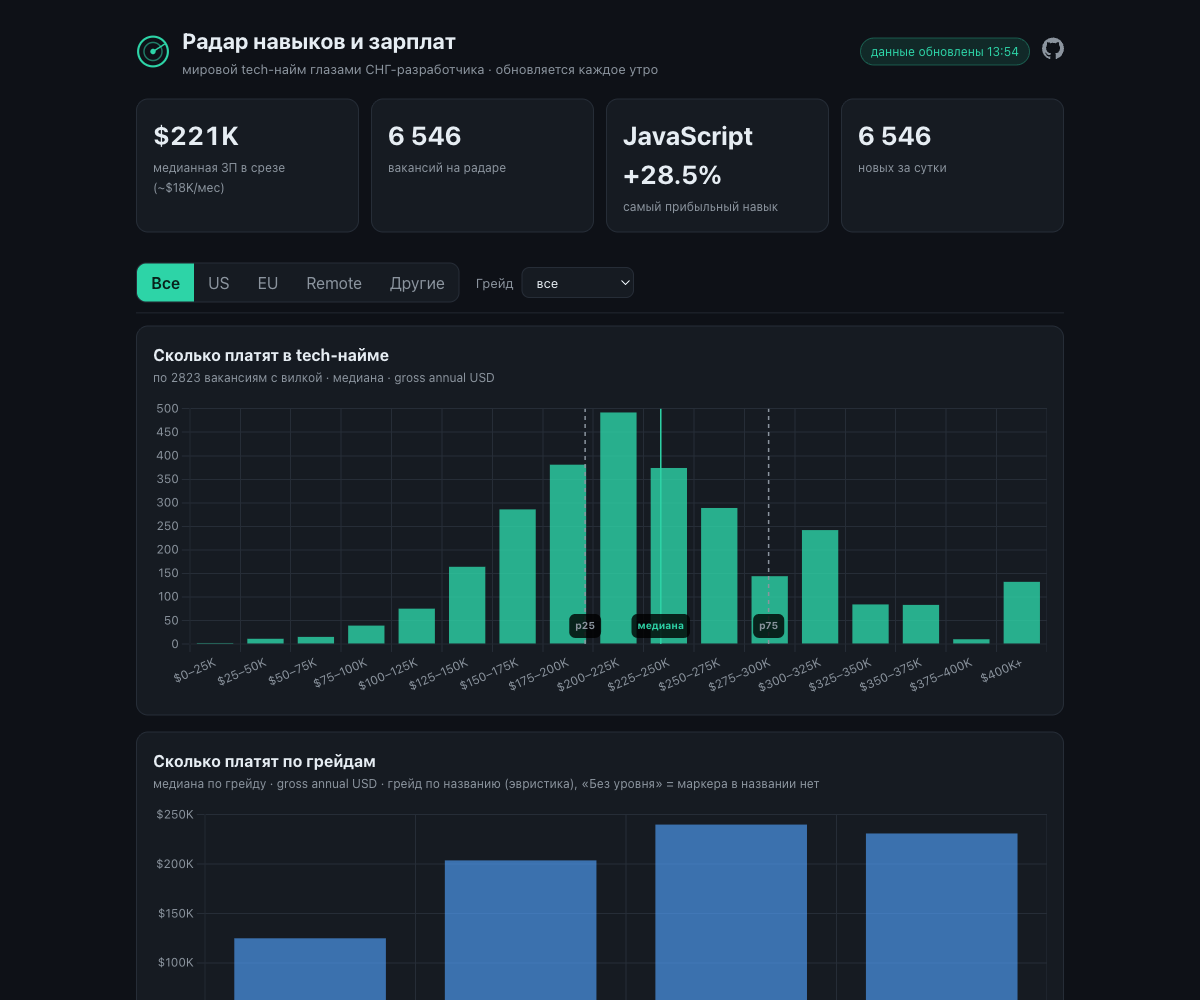
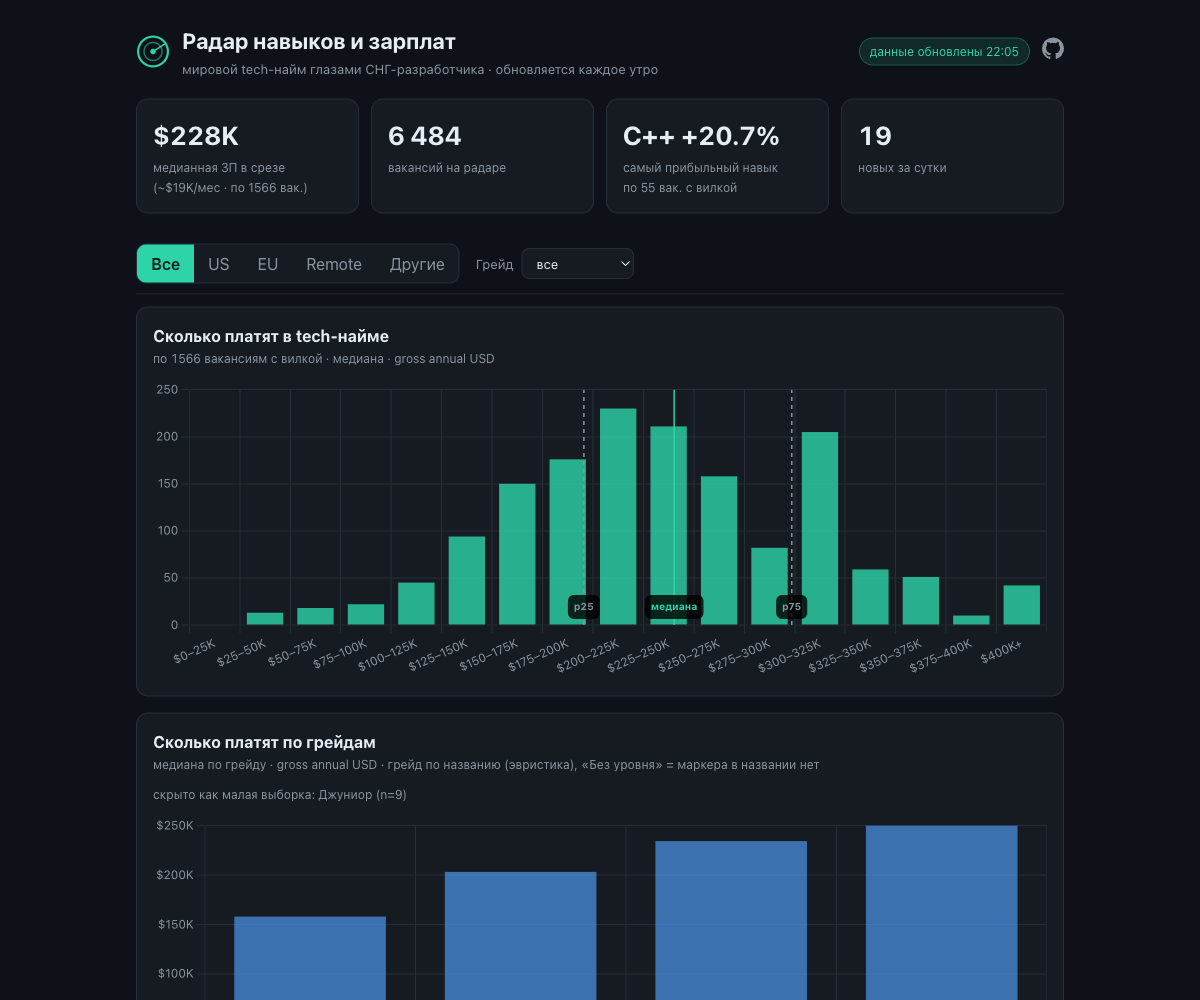
docs: journal Wave 1 results + refreshed screenshots on cleaned data

diff --git a/PLAN.md b/PLAN.md
@@ -441,6 +441,30 @@ PLAN переписан под ATS (§1–§10): USD-методика, seniority
 
 **Осталось (гейты, не код):** (1) eval-набор 25 примеров разметить по реальным JD → проверка владельцем → включить llm-eval в ci.yml; (2) полный дренаж LLM-очереди (~14 дней в проде, free-tier ~1000 вызовов/день); (3) этап 10 — 7 дней зелёных ранов + пост.
 
+### Волна 1 улучшений (docs/IMPROVEMENTS.md) — 2026-07-19/20 — ✅ ВЫПОЛНЕНА ЦЕЛИКОМ
+
+Мультиагентный брейншторм (12 агентов, 71 идея, 3 судьи) нашёл воспроизводимые дефекты; все 10 пунктов Волны 1 исправлены, плюс 9 пунктов Волны 2, вошедших в те же PR. Владелец дал сквозное разрешение («делай по порядку не спрашивая») — STOP-гейты 1.1/1.8 исполнены как «сделать и показать цифры».
+
+**1.1 Контаминация флагмана (главный дефект).** `skill_premium` выбрасывал множество `processed`, и вакансии, до которых LLM не дошёл, шли в пул «без навыка». Все опубликованные премии были завышены ~вдвое. До/после на одних данных: PyTorch +32.4→+16.4, C++ +29.6→+14.4, Go +28.0→+14.8, **Python +18.2→+2.2 (и CI пересекает ноль)**. Добавлен стратифицированный бутстрэп-CI (1000 реплик, фиксированный сид → воспроизводимость); `median_without_usd` убран из meta (пул поперёк страт противоречил столбцу). Приёмка: независимый duckdb-пересчёт C++ дал 14.4444% против 14.4% в meta.json — совпало.
+
+**1.2/1.3/1.9 Парсеры зарплат.** Ashby смешивал USD-min с JPY-max (ratio 1293) → парсинг по тирам с выбором одной валюты (14 конфликтов за прогон). Greenhouse брал «первые два $» из всего текста (бонусы, 401k, раунды инвестиций) → якорные пары рядом с salary-словами + гарды правдоподобия (203 пары отбраковано). `_PAIR` научен запятым, переносу суффикса («$150-200K»), символам £/€ и коду «GBP 90,000». Приёмки на свежем снапшоте: строк с max/min>20 — **0**; GH-строк с max/min>3 — **31 → 0**; EU-строк с вилкой **72 → 124** (GBP 31, EUR 11 из текста). **Побочный эффект честности: доля с вилкой 51% → 28%** — прежние 51% включали мусор.
+
+**1.4/1.6 Регионы и грейды.** `u\.s\.a?` внутри `\b…\b` никогда не матчил «U.S.»; «Tbilisi, Georgia» читался как US, «London, Ontario» как EU. Добавлены dotted-паттерн, коллизионный гард (Канада/Кавказ), city-only (Dublin/NYC/SF/Belgrade/Kyiv…). `seniority_of` научен нумералу `II|2` (уже зафиксирован в §3.6, но не был реализован); L5/IC3/«Engineer I/III» осознанно остаются unspecified; MTS — IC-титул, не staff+. Приёмки: **мид 16 → 92 строки**, из `other` мигрировало **96 строк**.
+
+**1.5 Очередь LLM.** Бюджет тратился в порядке фетча (все 700 размеченных — ashby A-L). Теперь порядок (has_salary, свежесть) + round-robin по ATS. Результат прогона: источников в выборке **3** (было 1), компаний 89, и **92% всех зарплатных вакансий размечены** (было ~11%). Доля зарплатных в дневном батче 59%, а не >80% из плана — потому что очередь зарплатных исчерпалась (осталась 141); порог писался под дофиксовые 2525.
+
+**1.7 Пакет честности (клиент).** «Новых за сутки» на дне-1 → «—»; hero-медиана при n<10 → «мало данных»; hero-навык требует n≥15 и CI выше нуля (**Go +14.8% n=119 вместо JavaScript +28.5% n=8**); знаменатель графика навыков подписан («доля от N размеченных, X% базы»); скрытые тонкие грейды названы; водяная подпись «день N из 7»; пустое состояние флагмана по §7 (<5 навыков).
+
+**1.8 Eval.** Написан детерминированный линтер (regex по каталогу, без LLM) — нашёл **5 фантомных лейблов** ровно там, где предсказал брейншторм (id=2 Git/Python, id=17 Python, id=22 C++) плюс id=7 LLM, и 7 пропущенных явных упоминаний (включая предсказанный id=12 «generative ai»→LLM). НЕ добавлены как лейблы: `GitLab`/`Git infrastructure` у id=17/20/22/24 — это имя компании-работодателя и её команд, а не требование навыка; `express`/`helm` — обычные английские слова. Набор расширен до **40** примеров (ashby AI-лабы), галлюцинации новых строк снимаются линтером автоматически. Гейт вынесен в отдельный `llm-eval.yml` (в ci.yml `paths-ignore: data/**` скрыл бы именно эти пуши). **Первый живой прогон: micro-F1 = 0.860, bootstrap CI [0.765, 0.928].** Бейдж в README.
+
+**1.10 + надёжность.** Volume-guard: сравнение с 7-дневными медианами по источникам, `VolumeGuardError` ДО записи партиций (полный отказ Greenhouse больше не запишется как обвал рынка); push-retry возвращал статус последней команды — три упавших пуша читались как зелёные, теперь честный exit 1; circuit-breaker пропускает целый ATS после 8 подряд отказов; timeout-minutes 90.
+
+**Из Волны 2 попутно:** бутстрэп-CI (п.1), лимит LLM 1200→5000 (п.2), не кэшировать NULL за пропущенные id и пустые описания (п.5), телеметрия экстракции в last_run.json (п.6), не сжигать бюджет на первом сбое — только на quota (п.7), Dependabot + верхние границы версий (п.8), деплой вне ETL-guard + пин wrangler@4 (п.9), timeout+circuit-breaker (п.10), MTS (п.11).
+
+**Состояние после прогона 2026-07-20:** 6484 tech-IC вакансии, 1822 с вилкой (28%), навыки у 43% базы и 92% зарплатных, медиана $228K. Флагман: значимы только **C++ +20.7% (n=55, CI [16.6, 24.5])** и Spark +18.8%; остальные 8 приглушены как статистически незначимые. Тесты 81 passed. Скриншоты пересняты.
+
+**Инфраструктурная находка (не баг проекта):** с машины владельца (Анкара) `tech-salary-radar.pages.dev` резолвится в 213.14.227.50 (турецкий ISP), внешние DNS 1.1.1.1/8.8.8.8 заблокированы — ISP-фильтр на `*.pages.dev`. Деплой при этом подтверждён Cloudflare API (production `7f7bb849`, коммит a135c15). Сайт жив для всех, кроме турецкого провайдера владельца — при проверках использовать VPN или прямой deployment-URL.
+
 ### Этап 8 деплой — ВЫПОЛНЕН (владелец залогинился в CF, попросил «сделай сам»)
 
 Git-интеграцию (OAuth GitHub-app в браузере) исполнитель делать не может → **прямой деплой через wrangler** (авторизован на аккаунт `310285…`). `wrangler pages project create tech-salary-radar` + `wrangler pages deploy site`. **САЙТ ЖИВОЙ: https://tech-salary-radar.pages.dev** — проверено в браузере (медиана $221K, флагман и все 6 графиков, 0 ошибок). og-теги + live-ссылка в README добавлены. **Отклонение от §2/§8 (git-интеграция без CF-токена):** direct-upload проект не подключить к git, поэтому авто-деплой = шаг в pipeline.yml `wrangler pages deploy` (заглушён без токена). `CLOUDFLARE_ACCOUNT_ID` в Secrets (не секретно, из URL). Для ежедневного авто-обновления владельцу создать **`CLOUDFLARE_API_TOKEN`** (scope Pages:Edit) в Secrets репо; без него пайплайн коммитит данные, но деплой пропускает (сайт до ручного `wrangler pages deploy`).
